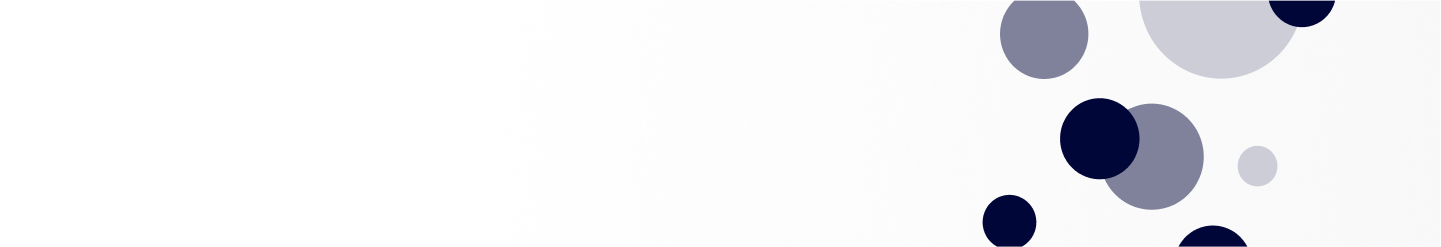
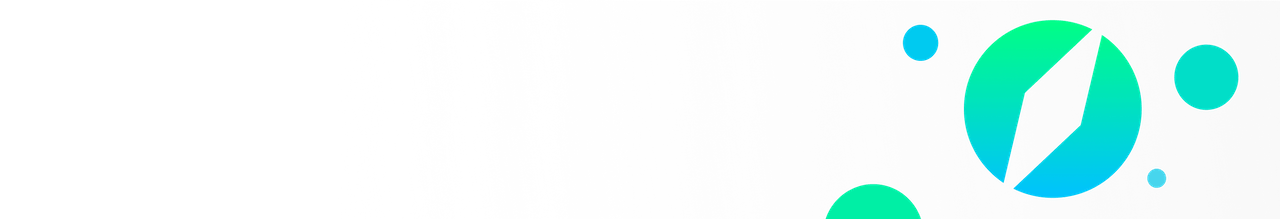
gps: Improve dashboard card

Changed region(s): [[0.6875, 0.0, 0.9688, 1.0], [0.625, 0.7671, 0.7188, 1.0]]

diff --git a/itou/templates/dashboard/includes/gps_card.html b/itou/templates/dashboard/includes/gps_card.html
@@ -1,37 +1,17 @@
 {% load matomo %}
-{% load tally %}
 
 <div class="col mb-3 mb-md-5" id="gps-card">
     <div class="c-box p-0 h-100">
         <div class="c-box__header--gps p-3 p-lg-4">
-            <span class="h4 m-0">GPS</span>
+            <span class="h4 m-0">GPS – Guide de partage et de suivi</span>
         </div>
         <div class="px-3 px-lg-4 pt-3 pt-lg-4">
+            <p>Retrouvez les coordonnées des professionnels qui interviennent auprès de vos bénéficiaires.</p>
             <ul class="list-unstyled mb-lg-5">
                 <li class="d-flex justify-content-between align-items-center mb-3">
                     <a href="{% url 'gps:my_groups' %}" aria-label="Gérer les utilisateurs suivis dans votre groupe." class="btn-link btn-ico" {% matomo_event "gps" "clic" "tdb_liste_beneficiaires" %}>
                         <i class="ri-article-line ri-lg fw-normal align-self-start"></i>
                         <span>Visualiser les bénéficiaires</span>
-                    </a>
-                </li>
-                {% if can_use_gps_advanced_features %}
-                    <li class="d-flex justify-content-between align-items-center mb-3">
-                        <a href="{% url 'gps:join_group' %}?back_url={% url 'dashboard:index' %}" aria-label="Créer ou rejoindre un groupe." class="btn-link btn-ico" {% matomo_event "gps" "clic" "tbd_ajout_groupe" %}>
-                            <i class="ri-play-list-add-line ri-lg fw-normal align-self-start"></i>
-                            <span>Ajouter un bénéficiaire</span>
-                        </a>
-                    </li>
-                {% endif %}
-                <li class="d-flex justify-content-between align-items-center mb-3">
-                    <a href='{% tally_form_url form_id="w5kLqM" user_public_id=user.public_id user_first_name=user.first_name user_last_name=user.last_name %}&{% if request.current_organization %}&user_organization_uid={{ request.current_organization.uid }}&user_organization_name={{ request.current_organization.display_name }}{% endif %}'
-                       rel="noopener"
-                       target="_blank"
-                       aria-label="Inviter un partenaire."
-                       class="btn-link btn-ico"
-                       {% matomo_event "gps" "clic" "tdb_inviter_partenaire" %}>
-                        <i class="ri-mail-send-line ri-lg fw-normal align-self-start"></i>
-                        <span>Inviter un partenaire</span>
-                        <i class="ri-external-link-line fw-normal ms-2"></i>
                     </a>
                 </li>
             </ul>

diff --git a/itou/static/css/itou.css b/itou/static/css/itou.css
@@ -356,6 +356,15 @@ an input field being invalid, generating an uncontrolled red box-shadow. */
     border-top-right-radius: 0.5rem;
 }
 
+.c-box__header--gps {
+    background-image: url("../img/dashboard/card-header-bg-gps.png");
+    background-repeat: no-repeat;
+    background-position: center right;
+    background-size: 100% auto;
+    border-top-left-radius: 0.5rem;
+    border-top-right-radius: 0.5rem;
+}
+
 .c-box__header--diagoriente {
     background-image: url("../img/dashboard/card-header-bg-diagoriente.png");
     background-repeat: no-repeat;
